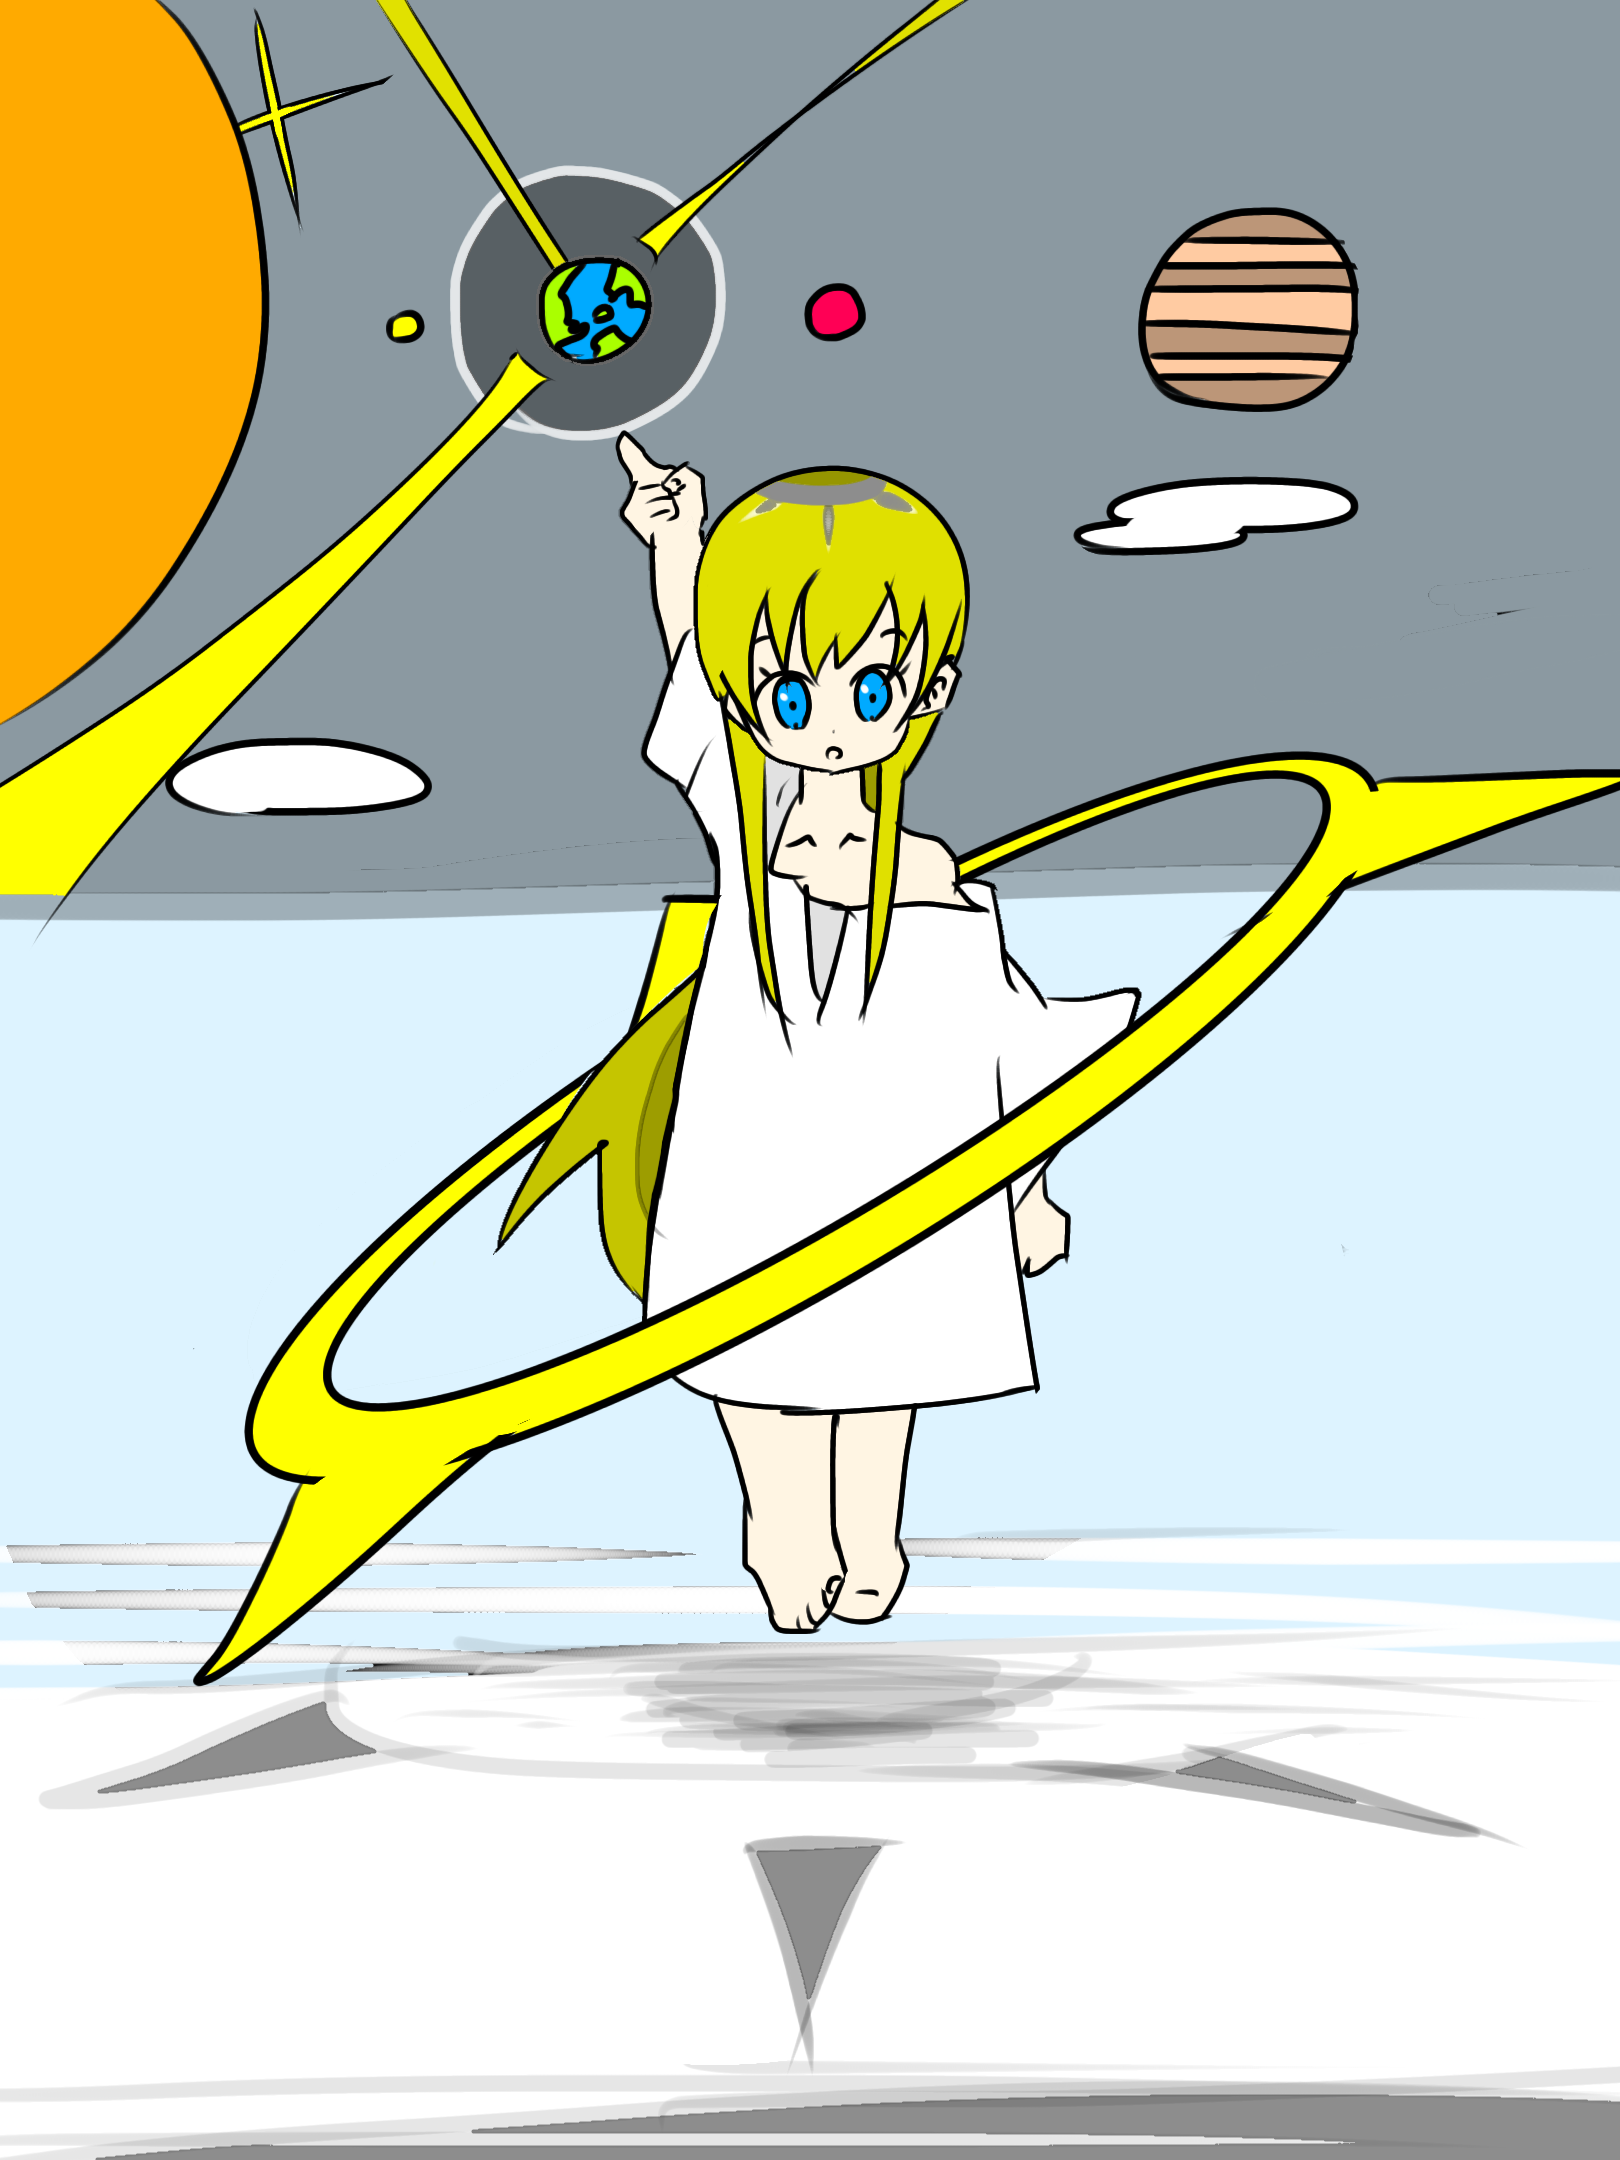
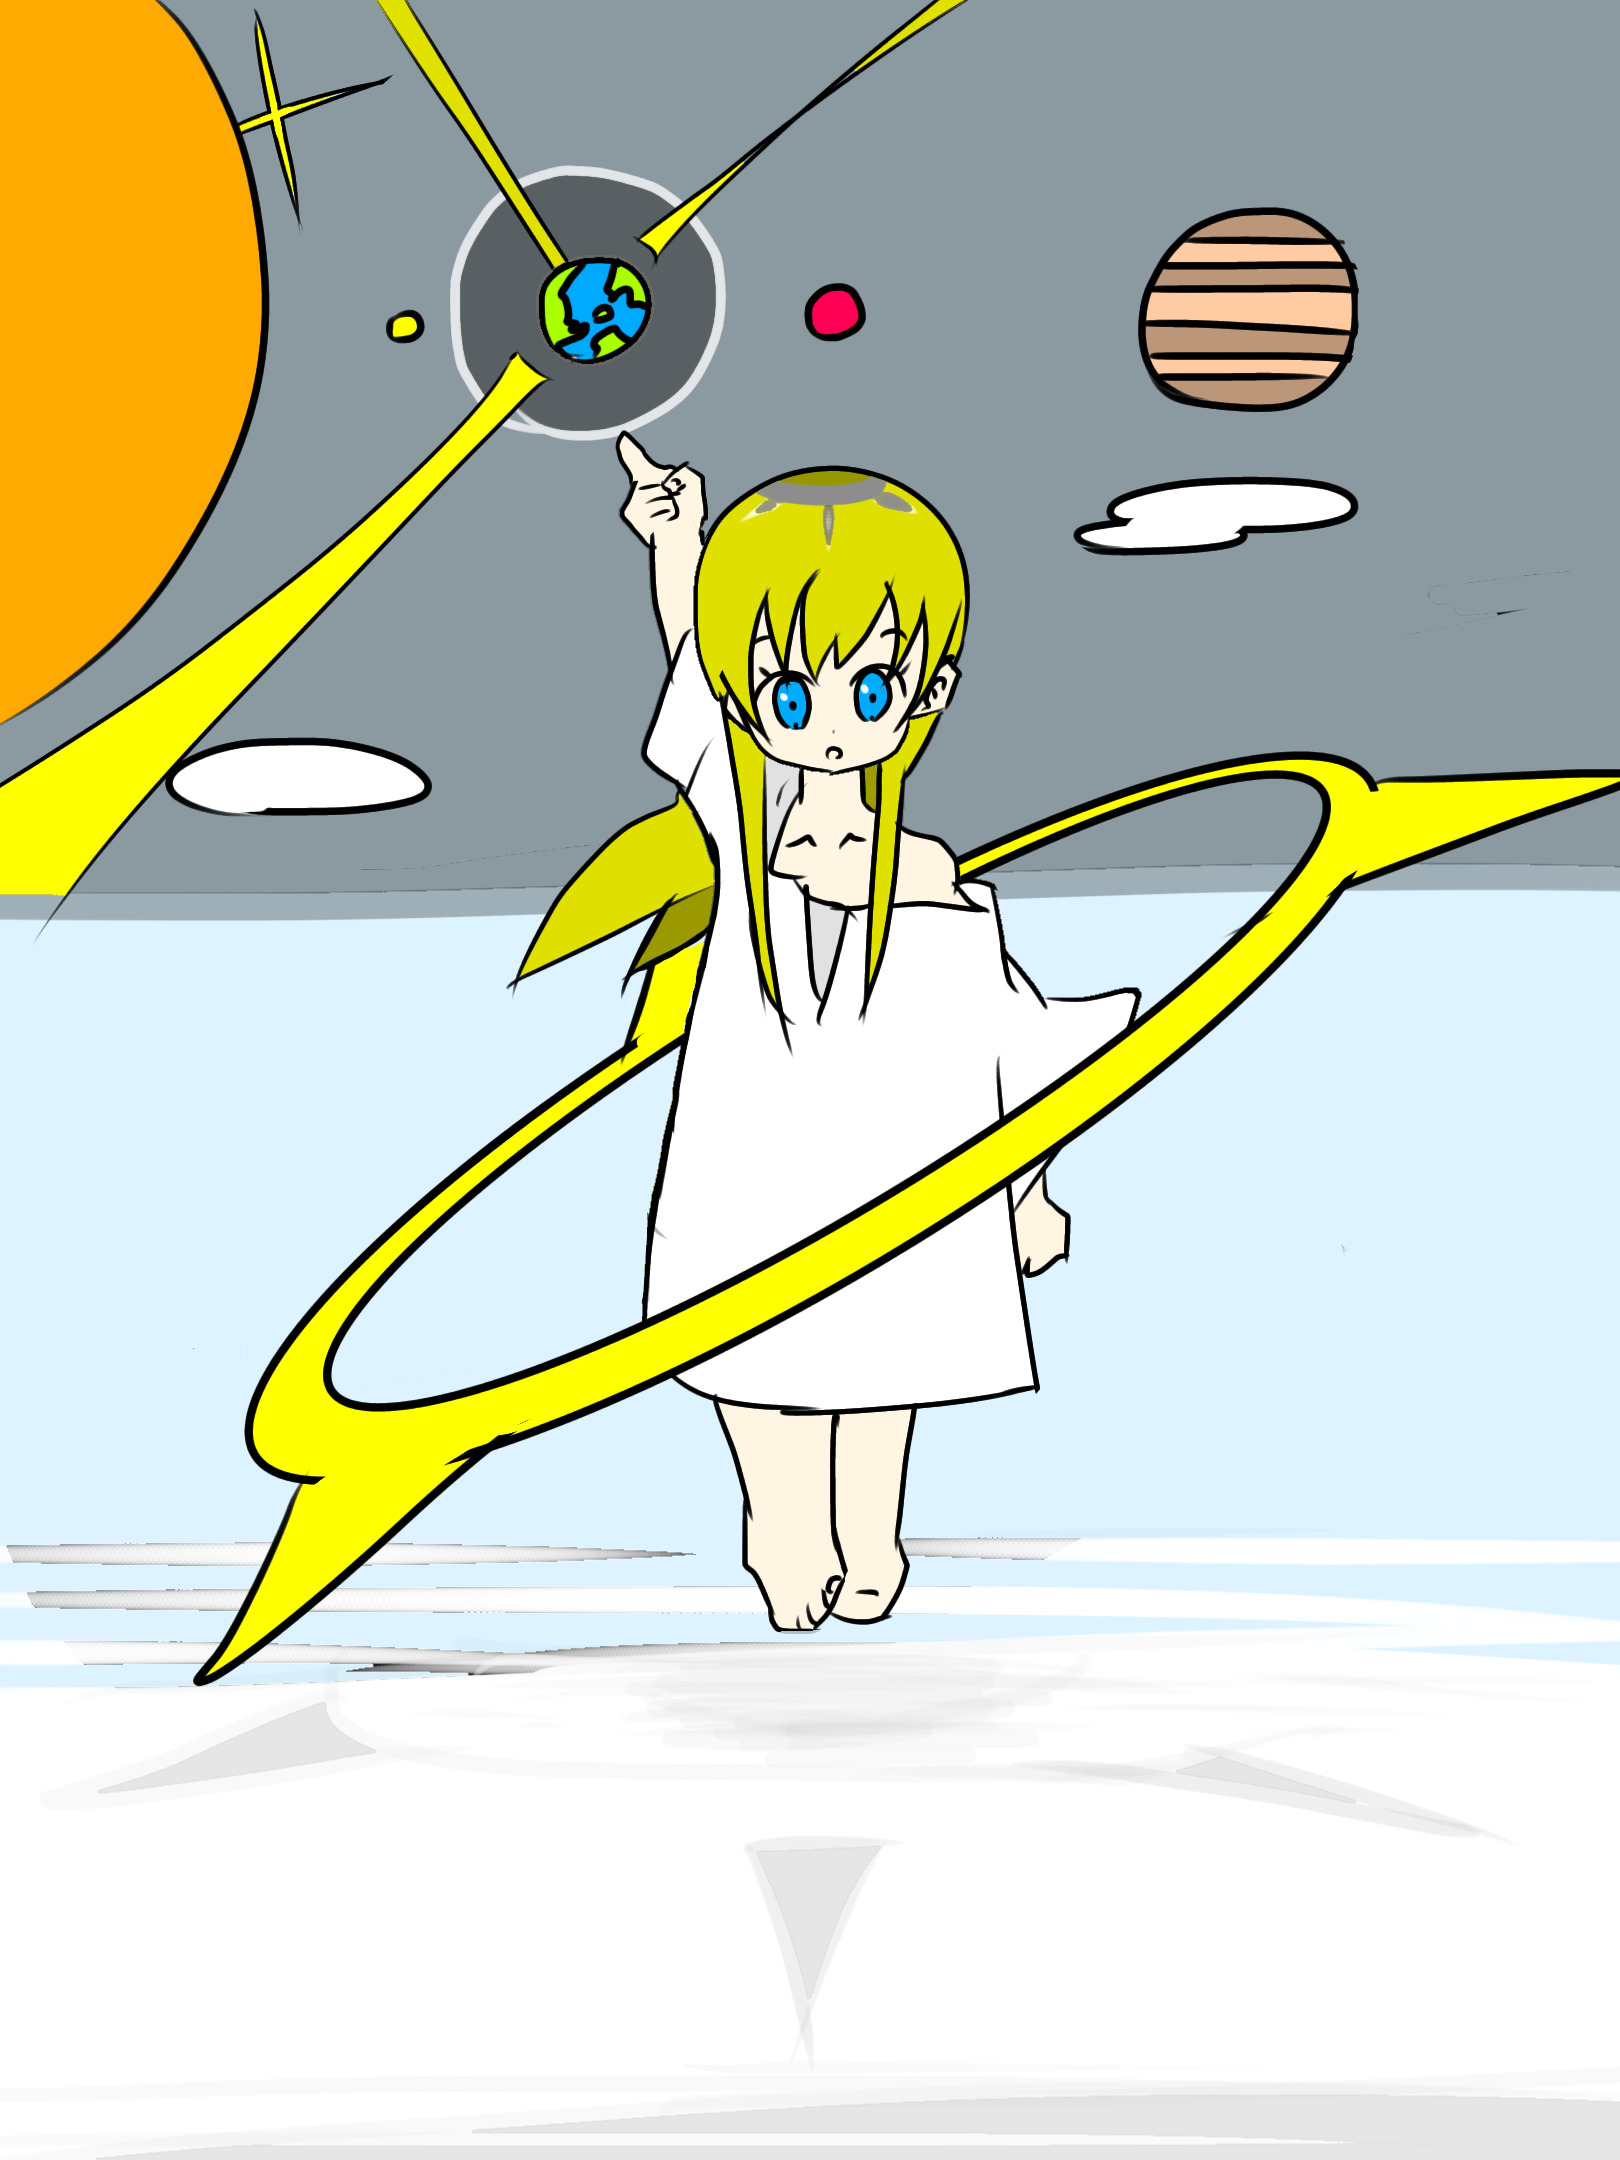
fixc

Changed region(s): [[0.0617, 0.7444, 1.0, 1.0], [0.3086, 0.3722, 0.463, 0.6204], [0.0617, 0.7755, 0.2778, 0.8375]]

diff --git a/content/blog/2021-02-28-illust.md b/content/blog/2021-02-28-illust.md
@@ -1,0 +1,13 @@
++++
+date = "2021-02-28"
+tags = ["illust"]
+title = "イラスト描いてみた65"
+slug = "illust"
++++
+
+![](/img/yui_65.png)
+
+こういう構図で一度描いてみたいなあと思ってたやつ描きました。輪っかが体の周りぐるっとしてる感じのやつ。
+
+背景は色々考えてみて、結局、そこまで描けないし、ネタもないしで、宇宙好きなので、いつも通り。でも個人的には気に入ってる。
+
